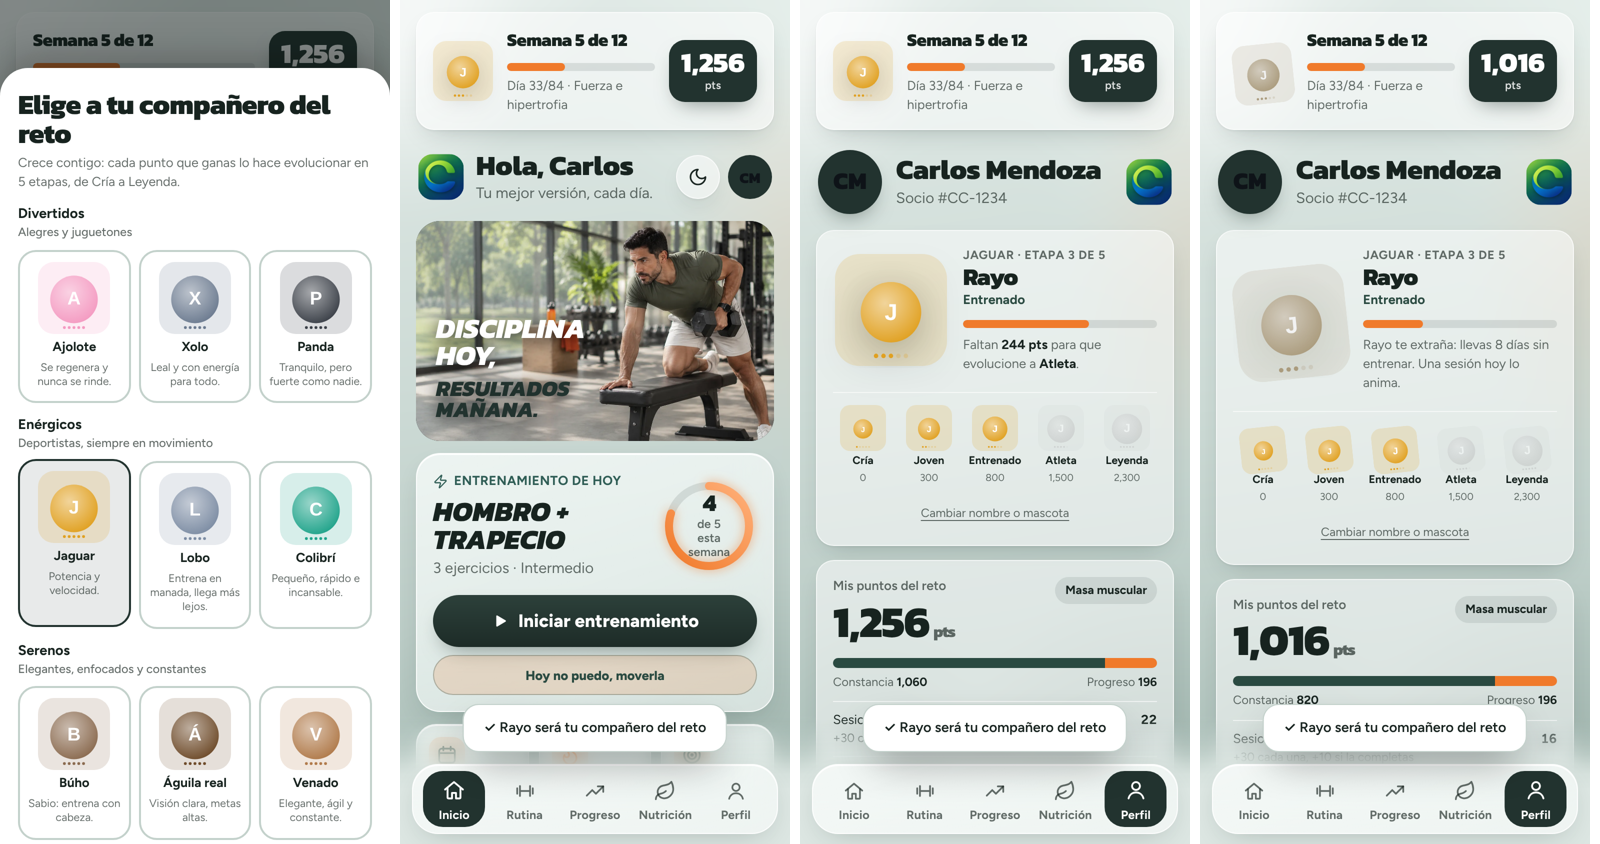
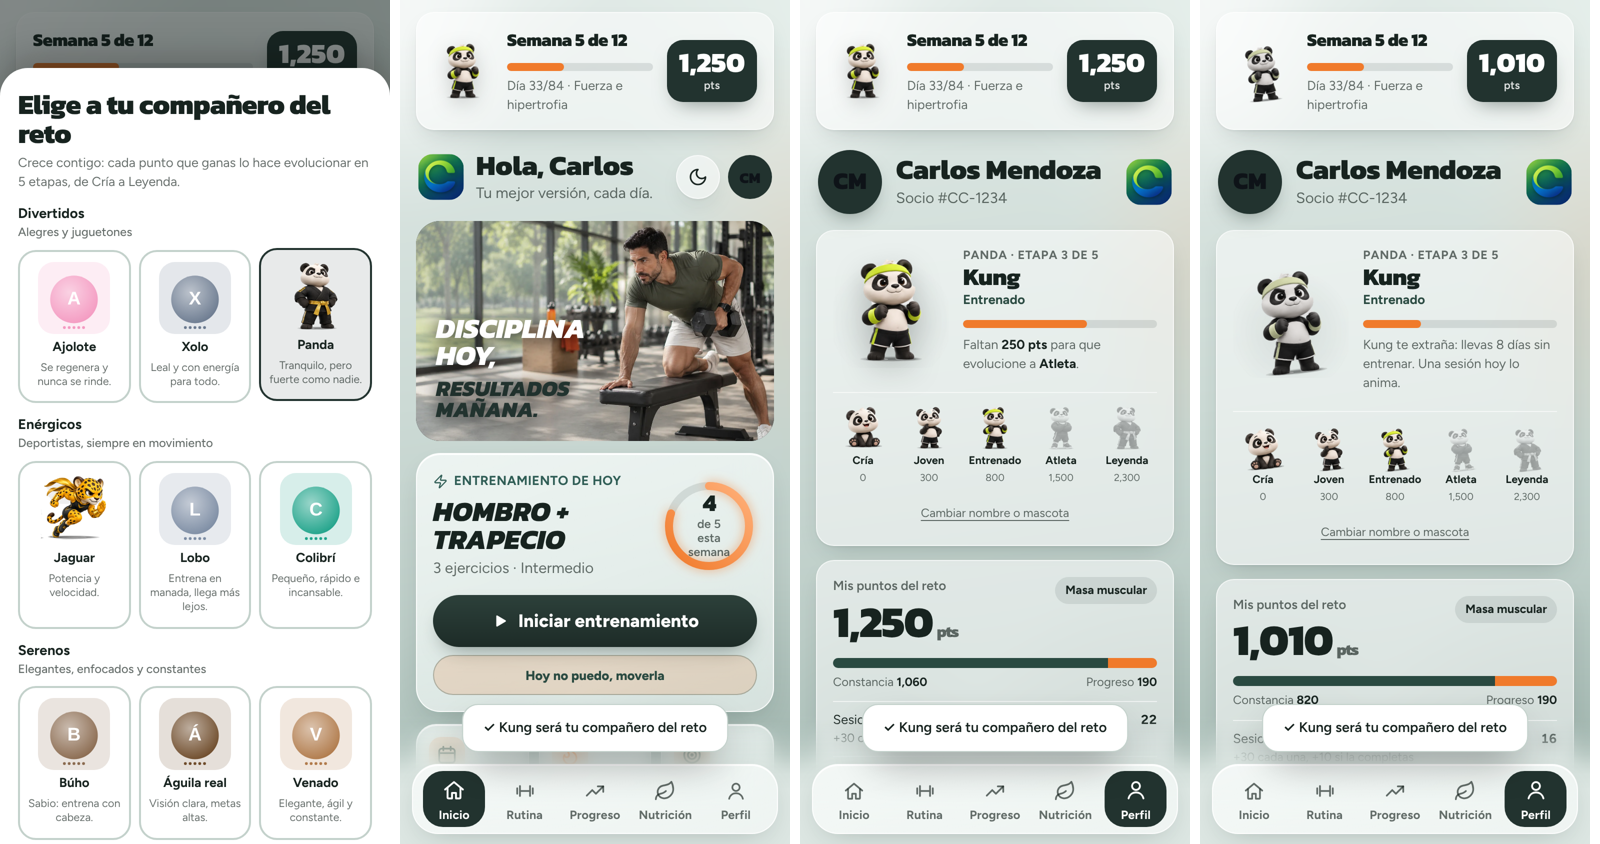
Mascotas: imágenes reales del panda y el jaguar
- img/mascotas/panda-1..5.webp y jaguar-1..5.webp, recortadas de las hojas de evolución del club
  (fondo transparente, sombra suave), con su procedencia.
- herramientas/recortar-mascota.py para recortar las siguientes hojas.

Claude-Session: https://claude.ai/code/session_01YU3tcXMKVi5PQi6C8mjWfF

diff --git a/sw.js b/sw.js
@@ -8,7 +8,7 @@
    → Los datos de Firebase NUNCA pasan por aquí (van directo).
    → Al desplegar cambios, sube CACHE_VERSION.
    ════════════════════════════════════════════════════════ */
-const CACHE_VERSION = 'retofit-cca-v12';
+const CACHE_VERSION = 'retofit-cca-v13';
 const PRECACHE_LOCAL = [
   './',
   './index.html',

diff --git a/herramientas/recortar-mascota.py b/herramientas/recortar-mascota.py
@@ -1,0 +1,64 @@
+# Recorta la hoja de evolución de una mascota (5 figuras en fila, fondo liso) en img/mascotas/<id>-1..5.webp con fondo transparente.
+# Uso: python3 herramientas/recortar-mascota.py hoja.png <id> img/mascotas   (requiere numpy, pillow y scipy)
+import sys, numpy as np
+from PIL import Image
+from scipy import ndimage as ndi
+def recortar(src, mid, outdir, n=5):
+    im=Image.open(src).convert('RGB'); a=np.asarray(im).astype(np.float32); H,W,_=a.shape
+    borde=np.concatenate([a[:6].reshape(-1,3),a[-6:].reshape(-1,3),a[:,:6].reshape(-1,3),a[:,-6:].reshape(-1,3)])
+    bg=np.median(borde,axis=0); bgl=bg.mean()
+    dist=np.sqrt(((a-bg)**2).sum(axis=2))
+    lum=a.mean(axis=2); sat=a.max(axis=2)-a.min(axis=2)
+    # 1) fondo = píxeles casi iguales al fondo y CONECTADOS con la orilla (el blanco del panda queda adentro)
+    cand=dist<16
+    lab,_=ndi.label(cand); orilla=set(np.unique(np.concatenate([lab[0],lab[-1],lab[:,0],lab[:,-1]])))-{0}
+    fondo=np.isin(lab,list(orilla))
+    # 2) sombra = gris claro sin color, pegado al fondo (crece desde el fondo)
+    somb_c=(sat<14)&(lum>bgl-70)&(lum<=bgl+2)&~fondo
+    lab2,_=ndi.label(somb_c|fondo); conect=set(np.unique(lab2[fondo]))-{0}
+    sombra=np.isin(lab2,list(conect))&somb_c
+    figura=~(fondo|sombra)
+    figura=ndi.binary_opening(figura,iterations=1)
+    col=figura.sum(axis=0)>3
+    segs=[];ini=None
+    for x in range(W):
+        if col[x] and ini is None: ini=x
+        if not col[x] and ini is not None:
+            if x-ini>8: segs.append([ini,x])
+            ini=None
+    if ini is not None: segs.append([ini,W])
+    # quedarse con los n segmentos más anchos y unir fragmentos chicos al más cercano
+    segs.sort(key=lambda s:s[1]-s[0],reverse=True); grandes=sorted(segs[:n]); 
+    assert len(grandes)==n,(src,segs)
+    # salida RGBA: figura opaca (borde suavizado), sombra como negro translúcido
+    alpha=np.zeros((H,W),np.float32); alpha[figura]=1
+    alpha=ndi.gaussian_filter(alpha,0.7)
+    sh_a=np.clip((bgl-lum)/bgl*2.2,0,0.45)*sombra
+    rgb=a.copy(); rgb[sombra]=0
+    A=np.maximum(alpha,sh_a)
+    rgba=np.dstack([np.clip(rgb,0,255).astype(np.uint8),(A*255).astype(np.uint8)])
+    lab3,nl=ndi.label(figura)
+    for k,(x0,x1) in enumerate(grandes,1):
+        # componente principal de esta figura: el más grande cuyo centro cae en el segmento
+        sub=lab3[:,x0:x1]; ids,cnt=np.unique(sub[sub>0],return_counts=True)
+        keep=set(ids[cnt>=max(cnt)*0.03])     # descarta pedazos sueltos de la figura vecina
+        m=np.isin(lab3,list(keep)); m[:, :x0]=False; m[:, x1:]=False
+        ys,xs=np.where(m); y0,y1,xa,xb=ys.min(),ys.max()+1,xs.min(),xs.max()+1
+        # cabeza: rellena "mordidas" donde el blanco del personaje toca el fondo (solo en el 45% superior)
+        r=max(6,int(0.06*(xb-xa))); yy,xx=np.ogrid[-r:r+1,-r:r+1]; disco=(xx*xx+yy*yy)<=r*r
+        cerr=ndi.binary_closing(m,structure=disco); cerr=ndi.binary_fill_holes(cerr)
+        sup=np.zeros_like(m); sup[y0:int(y0+0.45*(y1-y0)),:]=True
+        add=cerr&~m&sup; m=m|add; figura[add]=True; rgba[add,3]=255; rgba[add,:3]=a[add].astype(np.uint8)
+        yb=min(H,y1+int(0.06*(y1-y0)))          # deja espacio para la sombra
+        pad=int(0.05*max(xb-xa,yb-y0))
+        box=(max(0,xa-pad),max(0,y0-pad),min(W,xb+pad),min(H,yb+pad))
+        c=rgba[box[1]:box[3],box[0]:box[2]].copy()
+        # borrar en el recorte lo que sea figura de otros componentes
+        mm=m[box[1]:box[3],box[0]:box[2]]; otro=(figura[box[1]:box[3],box[0]:box[2]])&~mm
+        c[otro,3]=0
+        ci=Image.fromarray(c,'RGBA'); s=max(ci.size); sq=Image.new('RGBA',(s,s),(0,0,0,0))
+        sq.paste(ci,((s-ci.width)//2, s-ci.height)); sq=sq.resize((512,512),Image.LANCZOS)
+        sq.save(f'{outdir}/{mid}-{k}.webp',quality=88,method=6)
+    return grandes
+if __name__=='__main__':
+    print(recortar(sys.argv[1],sys.argv[2],sys.argv[3]))
